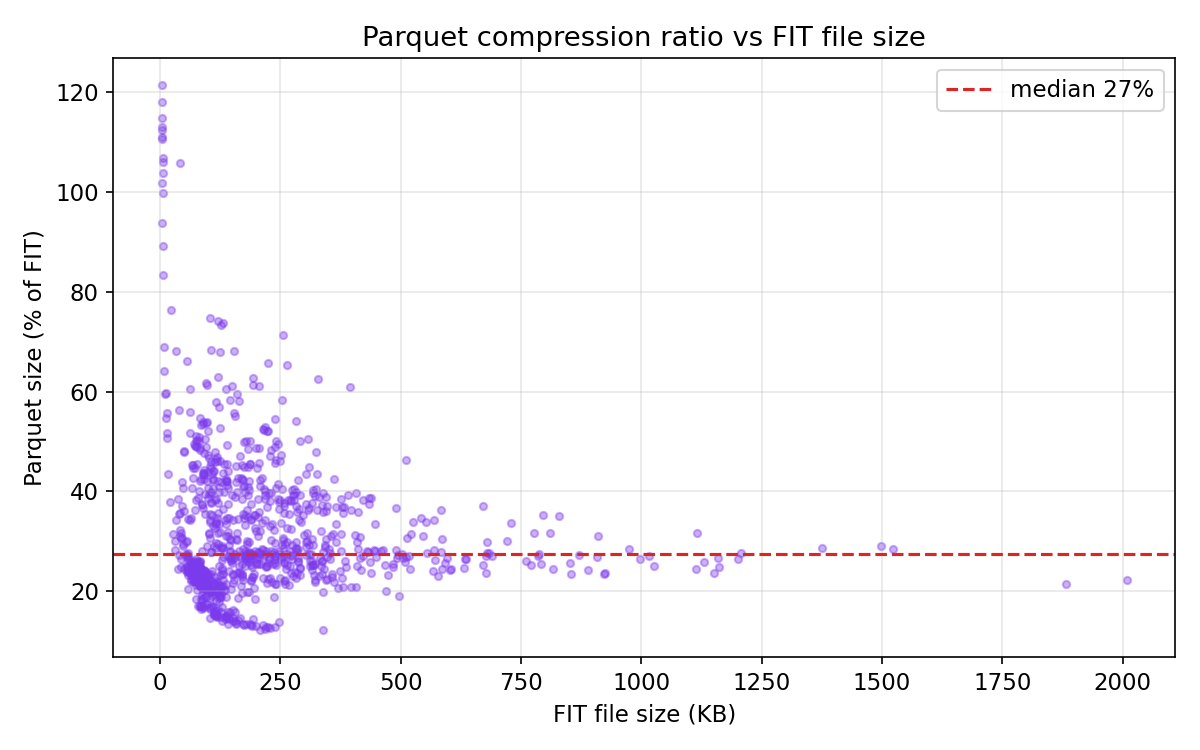
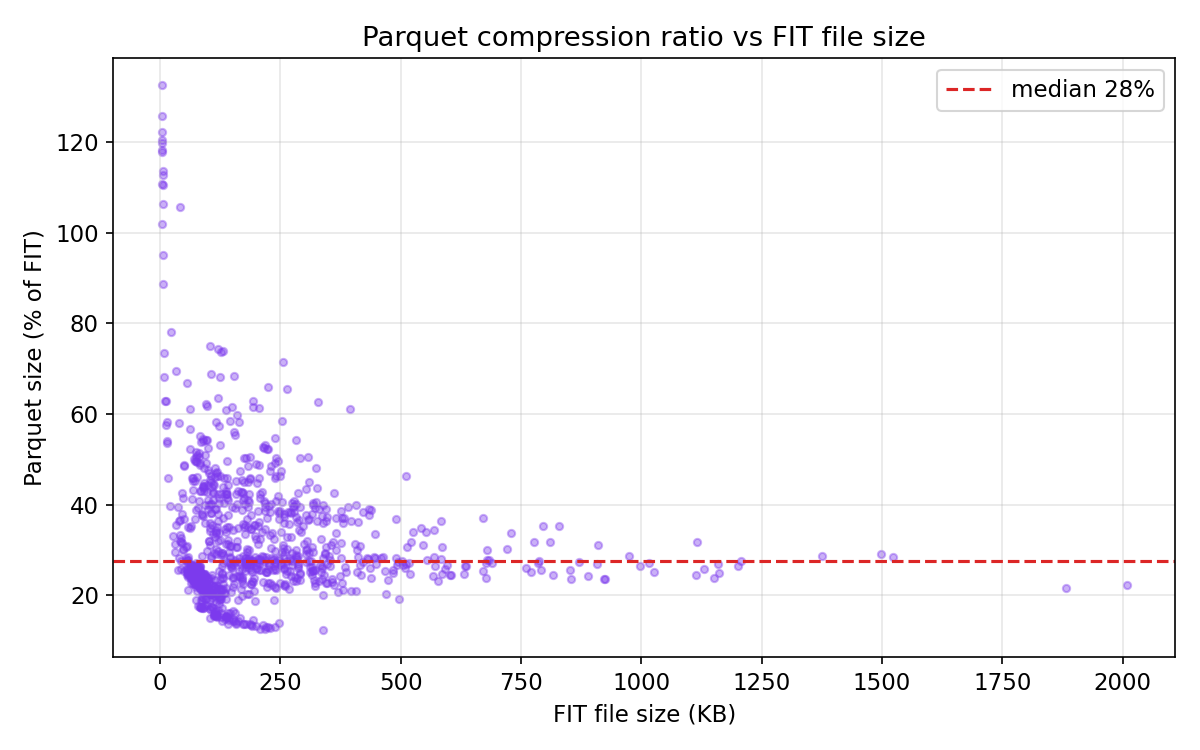
Update benchmarks and the scan_fit timing in the docs
Regenerated BENCHMARK.md (same machine and Parquet files as 0.10.0, run
back to back against a 0.10.0 build on the same interpreter): FIT full
load 4.5 -> 4.9 ms median, metadata scan and Parquet unchanged. Directory
level (median of 3, interleaved): load_fit_batch 6.3 -> 2.0 s, scan_fit
1.26 -> 1.82 s for 986 files. The docs claimed ~1.5 s for scan_fit, from
a single noisy run.

diff --git a/CHANGELOG.md b/CHANGELOG.md
@@ -25,7 +25,7 @@ Types of changes:
 - **`load_csv` and `read_csv` sort by `timestamp` and keep one row per timestamp (the last)**, as the FIT loaders do; `deduplicate=False` opts out. Sorted CSVs with unique timestamps are unchanged.
 - **Rows are sorted and deduplicated before column selection**, so an explicit `columns=` list without `timestamp` returns the same rows as one with it (it previously skipped both).
 - **`open_fit`: reading `metadata.summary` loads the records**, like `.data`; the top level and `athlete` never do. `metrics`, `extra` and the devices' columns are refreshed when the records load, so an opened activity's metadata then equals `load_fit()`'s (the scan's `metrics` were an approximation). The repr shows `not loaded` until then, and never loads. An opened metadata cannot be pickled before its records load.
-- **`scan_fit` parses each file in full**, since `duration` and `distance` are now computed from the records; its `metrics` column now matches `load_fit()`'s. Parsing releases the GIL, so files parse in parallel and a 963-file directory takes about as long as the metadata-only scan did (1.5 s against 1.3 s).
+- **`scan_fit` parses each file in full**, since `duration` and `distance` are now computed from the records; its `metrics` column now matches `load_fit()`'s. Parsing releases the GIL, so files parse in parallel: a 986-file directory takes 1.8 s, against 1.3 s for the metadata-only scan.
 
 ### Added
 - **`metadata.summary`** (`SessionSummary`): `duration`, `timer_time`, `distance`, and the time-weighted average and maximum of `heart_rate`, `power`, `cadence`, `speed` and `temperature`, computed from the table returned; `ascent`, `descent`, `calories`, `training_effect`, `anaerobic_training_effect`, `training_load_peak` from the device; `rpe` (0–10) and `feel` (0–100) as entered by the athlete. Averages weigh each sample by the time the timer ran until the next one, from the file's timer events; a device restart (`power_up`) ends the running time at the last record before it. A computed field is `None` when its column is not selected, and the summary is the same with `deduplicate=True` or `False`.

diff --git a/BENCHMARK.md b/BENCHMARK.md
@@ -9,7 +9,7 @@ Single-file performance across **963** real activities (3,548,854 total rows).
 | CPU | Apple M1 Pro |
 | RAM | 32 GB |
 | Disk | APPLE SSD AP2048R (internal SSD) |
-| OS | macOS 26.3.1 |
+| OS | macOS 27.0.1 |
 | Python | 3.10.10 |
 | PyArrow | 23.0.1 |
 
@@ -24,24 +24,24 @@ Each operation is measured once per file (no repeated iterations) across
 | Activities | 963 |
 | Total rows | 3,548,854 |
 | Total FIT size | 217 MB |
-| Total Parquet size | 65 MB (27% median compression) |
+| Total Parquet size | 66 MB (28% median compression) |
 
 ## Summary
 
 | Operation | median | p5 | p95 | max |
 |---|--:|--:|--:|--:|
-| **FIT full parse** | **4.3 ms** | 1.2 ms | 18 ms | 89 ms |
-| **FIT metadata scan** | **0.90 ms** | 0.30 ms | 3.4 ms | 11 ms |
-| **Parquet full load** | **0.93 ms** | 0.71 ms | 1.6 ms | 4.7 ms |
-| **Parquet metadata scan** | **0.15 ms** | 0.13 ms | 0.20 ms | 1.0 ms |
-| **Parquet write** | **1.5 ms** | 0.81 ms | 4.0 ms | 7.5 ms |
+| **FIT full parse** | **4.9 ms** | 1.7 ms | 18 ms | 79 ms |
+| **FIT metadata scan** | **0.94 ms** | 0.34 ms | 3.4 ms | 11 ms |
+| **Parquet full load** | **0.86 ms** | 0.65 ms | 1.4 ms | 2.7 ms |
+| **Parquet metadata scan** | **0.19 ms** | 0.16 ms | 0.28 ms | 0.41 ms |
+| **Parquet write** | **1.8 ms** | 1.1 ms | 5.5 ms | 12 ms |
 
 ### Parquet vs FIT speedup
 
 | Operation | median speedup |
 |---|--:|
-| Full load | **4x** |
-| Metadata scan | **6x** |
+| Full load | **6x** |
+| Metadata scan | **5x** |
 
 ## FIT parse time vs file size
 
@@ -73,8 +73,8 @@ Loading only `["timestamp", "power"]` instead of all 12 columns:
 
 | Load mode | FIT median | Parquet median |
 |---|--:|--:|
-| All columns | 4.8 ms | 0.93 ms |
-| Power only | 1.9 ms | 0.64 ms |
+| All columns | 5.0 ms | 0.86 ms |
+| Power only | 2.7 ms | 0.79 ms |
 
 FIT parse time is nearly identical — the Rust decoder must read the full
 binary stream regardless, and column selection only drops unwanted columns

diff --git a/README.md b/README.md
@@ -436,7 +436,7 @@ Scan a directory of `.fit` or `.parquet` files, filter by metadata, load only wh
 ```python
 import pyroparse as pp
 
-# Scan: one row per file, parsed in parallel (~1.5 s per 1,000 files)
+# Scan: one row per file, parsed in parallel (~2 s per 1,000 files)
 catalog = pp.scan_fit("~/data/activities/")
 # file_path | sport | start_time | duration | distance | metrics | ...
 
